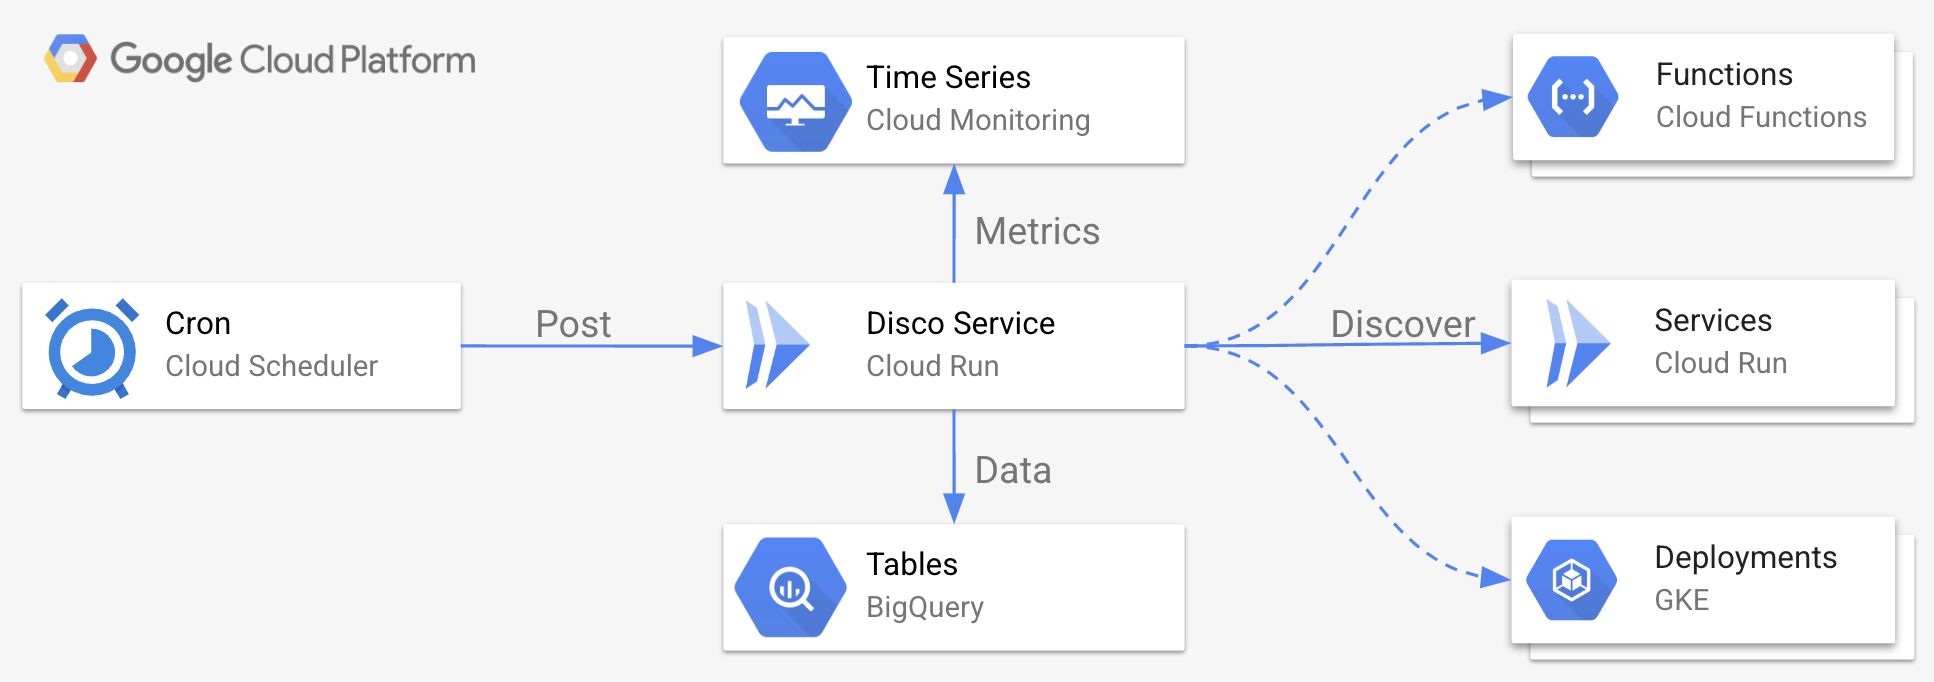
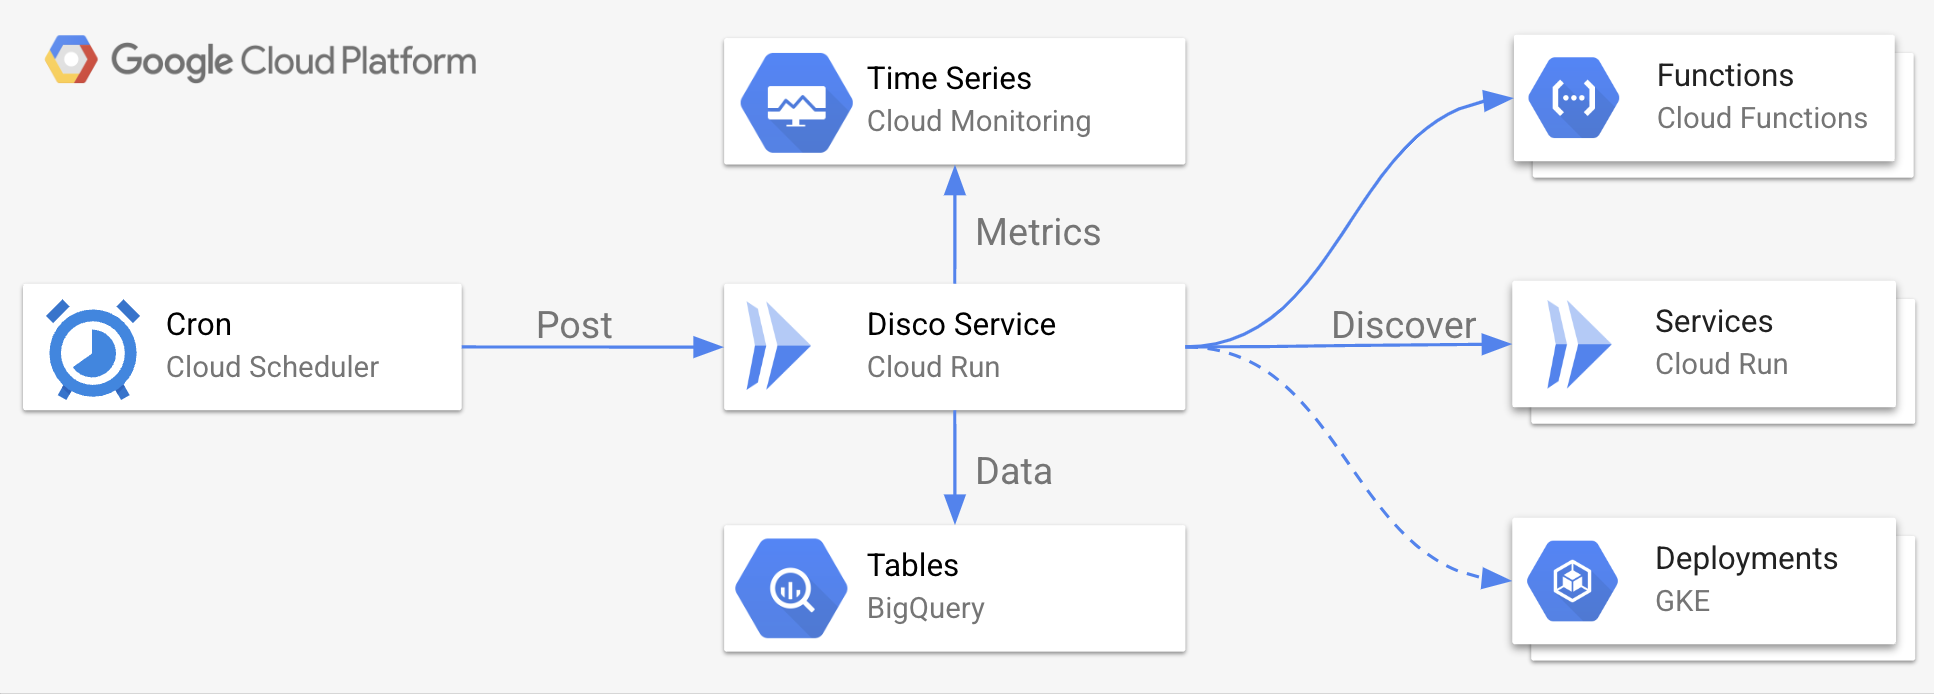
adds function discovery

diff --git a/pkg/source/run/service.go b/pkg/source/run/service.go
@@ -16,6 +16,11 @@ const (
 
 	// revisionAPIBaseURL is the base URL for Cloud Run revision.
 	revisionAPIBaseURL = "https://run.googleapis.com/v2/%s"
+
+	managedByGCF = "cloudfunctions"
+
+	runtimeGCF = "gcf"
+	runtimeRun = "run"
 )
 
 type serviceList struct {
@@ -27,9 +32,13 @@ type service struct {
 	FullName   string       `json:"fullName"`
 	Revision   string       `json:"latestReadyRevision"`
 	Containers []*container `json:"containers"`
+	Runtime    string       `json:"runtime"`
 }
 
 type revision struct {
+	Labels struct {
+		ManagedBy string `json:"goog-managed-by"` //nolint:tagliatelle
+	} `json:"labels"`
 	Conditions []*container `json:"containers"`
 }
 
@@ -81,6 +90,11 @@ func getServices(ctx context.Context, projectID, region string) ([]*service, err
 		s.FullName = s.Name
 		s.Name = parseServiceName(s.Name)
 		s.Containers = rev.Conditions
+		if rev.Labels.ManagedBy == managedByGCF {
+			s.Runtime = runtimeGCF
+		} else {
+			s.Runtime = runtimeRun
+		}
 	}
 
 	return list.Services, nil

diff --git a/pkg/source/run/client_test.go b/pkg/source/run/client_test.go
@@ -17,6 +17,7 @@ var (
 	urlExpLocations   = regexp.MustCompile(`/locations$`)
 	urlEpxProjects    = regexp.MustCompile(`/projects$`)
 	urlExpServices    = regexp.MustCompile(`/locations/us-west1/services$`)
+	urlExpFunctions   = regexp.MustCompile(`/locations/us-west1/functions$`)
 	urlExpRevision    = regexp.MustCompile(`/revisions/`)
 	urlExpUsage       = regexp.MustCompile(`/projects/799736955886/services$`)
 	urlEpxOccurrences = regexp.MustCompile(`/occurrences$`)
@@ -36,6 +37,8 @@ func (t *testAPIClient) Get(ctx context.Context, req *http.Request, v any) error
 		testFile = "../../../etc/data/test-projects.json"
 	case urlExpServices.MatchString(u):
 		testFile = "../../../etc/data/test-services.json"
+	case urlExpFunctions.MatchString(u):
+		testFile = "../../../etc/data/test-functions.json"
 	case urlExpRevision.MatchString(u):
 		testFile = "../../../etc/data/test-revision.json"
 	case urlExpUsage.MatchString(u):

diff --git a/pkg/source/run/image.go b/pkg/source/run/image.go
@@ -249,10 +249,10 @@ func GetImages(ctx context.Context, in *types.ImagesQuery) ([]*types.ImageItem, 
 				log.Error().Err(err).Msgf("error getting services for project: %s in region %s", p.Number, r.ID)
 				continue
 			}
-
 			log.Debug().Msgf("found %d services in: %s/%s", len(svcs), p.ID, r.ID)
+
 			for _, s := range svcs {
-				log.Info().Msgf("processing: %s", s.FullName)
+				log.Info().Msgf("processing %s: %s", s.Runtime, s.FullName)
 
 				for _, c := range s.Containers {
 					if _, ok := images[c.Image]; ok {
@@ -270,9 +270,10 @@ func GetImages(ctx context.Context, in *types.ImagesQuery) ([]*types.ImageItem, 
 							"service-name":     s.Name,
 							"service-revision": s.Revision,
 							"container-name":   c.Name,
+							"runtime":          s.Runtime,
 						},
 					}
-					images[img.URI] = img
+					images[c.Image] = img
 				}
 			}
 		}
